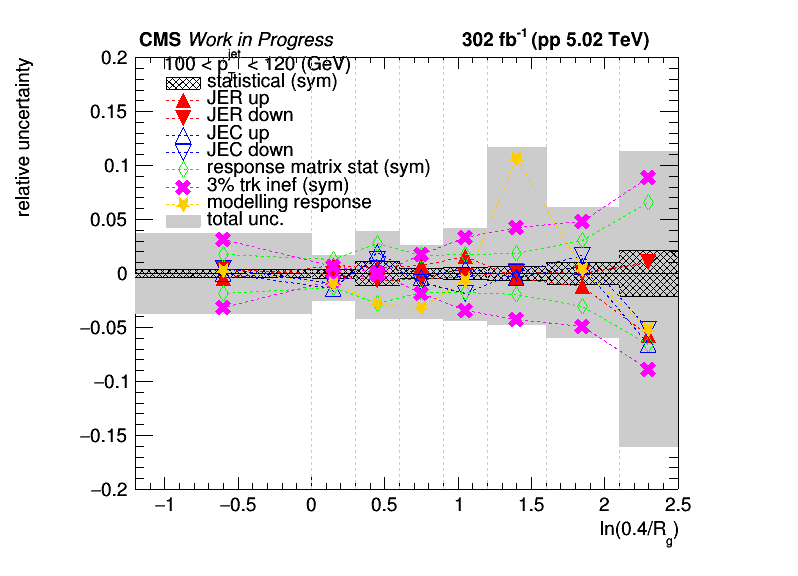
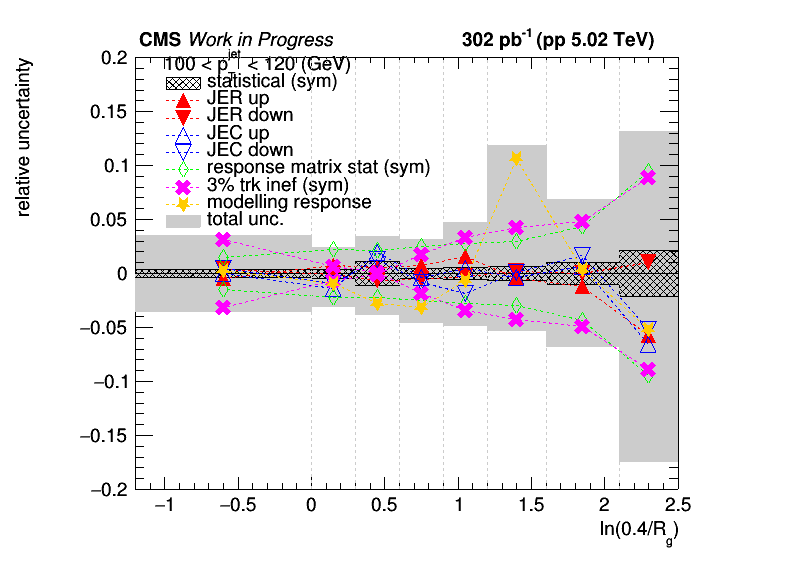
total unc for b tagged jets rg/zg/z

diff --git a/myMacros/C106X/uncertanties/draw_unc.C b/myMacros/C106X/uncertanties/draw_unc.C
@@ -1,0 +1,257 @@
+#include "../draw_utils.h"
+
+void draw_unc(TString observable="rg")
+{
+    TString xlabel;
+    if (observable=="rg") xlabel = "ln(0.4/R_{g})";
+    else if (observable=="zg") xlabel = "z_{g}";
+    else if (observable=="zpt") xlabel = "z";
+    
+    gStyle->SetErrorX(0.5);
+
+    TFile *fin_jer = new TFile("histos/"+observable+"_jer_unc_XXT.root");
+    TFile *fin_jec = new TFile("histos/"+observable+"_jec_unc_XXT.root");
+    TFile *fin_trk_inef = new TFile("histos/"+observable+"_trk_inef_XXT.root");
+    TFile *fin_model_unc = new TFile("histos/"+observable+"_model_unc_XXT.root");
+    TFile *fin_stat_unc = new TFile("histos/"+observable+"_stat_unc_XXT.root");
+    TFile *fin_mc_stat_unc = new TFile("histos/"+observable+"_mc_stat_unc_XXT.root");
+    TFile *fin_model_fit_unc = new TFile("histos/"+observable+"_model_fit_unc_XXT.root");
+    TFile *fin_btag = new TFile("histos/"+observable+"_btag_bias.root");
+    TFile *fin_cl_frac = new TFile("histos/"+observable+"_cl_frac_unc_XXT.root");
+
+    // debug: raw stat unc
+    TFile *fin_raw_stat_unc = new TFile("histos/"+observable+"_raw_stat_unc_XXT.root");
+
+    int nbins_pt = 3;
+    
+    TCanvas *c_unc = new TCanvas("c_unc", "", 1600,1200);
+    // TPad *pad11 = new TPad("pad11", "", 0., 0., 0.33, 1.);
+    TPad *pad12 = new TPad("pad12", "", 0., 0., 1., 1.);
+    // TPad *pad13 = new TPad("pad13", "", 0.66, 0., 0.99, 1.);
+
+    TPad *pad11, *pad13;
+
+    std::vector<TPad *> pads = {pad11, pad12, pad13};
+
+    TString fout_name = "histos/total_unc_XXT_"+observable+".root";
+    std::cout << "Creating file: " << fout_name << std::endl;
+    TFile *fout = new TFile(fout_name, "recreate");
+
+    for (int ibin_pt=1; ibin_pt<=nbins_pt; ibin_pt++) {
+        if (ibin_pt!=2) continue;
+        int ipad = ibin_pt - 1;
+
+        TLegend *leg = new TLegend(0.2, 0.6, 0.6, 0.9);
+        leg->SetFillStyle(0);
+        leg->SetBorderSize(0);
+        leg->SetMargin(0.15);
+        // leg->SetHeader(Form("jet pt bin %d", ibin_pt));
+        leg->SetHeader("100 < p_{T}^{jet} < 120 (GeV)");
+
+        TH1D *h_stat_unc_rel = (TH1D *) fin_stat_unc->Get(Form("h_stat_unc_rel_%d", ibin_pt))->Clone(Form("h_stat_unc_rel_%d", ibin_pt));
+        h_stat_unc_rel->SetLineColor(kBlack);
+        h_stat_unc_rel->SetFillStyle(3244);
+        h_stat_unc_rel->SetMarkerStyle(1);
+        h_stat_unc_rel->GetYaxis()->SetTitle("relative uncertainty");
+        h_stat_unc_rel->GetYaxis()->SetTitleOffset(2.5);
+        leg->AddEntry(h_stat_unc_rel, "statistical (sym)", "f");
+
+        TH1D *h_stat_unc_rel_down = (TH1D *) h_stat_unc_rel->Clone(Form("h_stat_unc_rel_down_%d", ibin_pt));
+        h_stat_unc_rel_down->Scale(-1.);
+
+        // debug: raw stat unc
+        TH1D *h_raw_stat_unc_rel = (TH1D *) fin_raw_stat_unc->Get(Form("h_stat_unc_rel_%d", ibin_pt))->Clone(Form("h_raw_stat_unc_rel_%d", ibin_pt));
+        h_raw_stat_unc_rel->SetLineColor(kBlack);
+        h_raw_stat_unc_rel->SetFillStyle(3002);
+        h_raw_stat_unc_rel->SetMarkerStyle(1);
+        h_raw_stat_unc_rel->GetYaxis()->SetTitle("relative uncertainty");
+        h_raw_stat_unc_rel->GetYaxis()->SetTitleOffset(2.5);
+        // leg->AddEntry(h_raw_stat_unc_rel, "raw statistical (sym)", "f");
+
+        TH1D *h_raw_stat_unc_rel_down = (TH1D *) h_raw_stat_unc_rel->Clone(Form("h_raw_stat_unc_rel_down_%d", ibin_pt));
+        h_raw_stat_unc_rel_down->Scale(-1.);
+
+        std::cout << "after stat " << std::endl;
+
+        TH1D *h_jer_up_rel = (TH1D *) fin_jer->Get(Form("h_unc_up_rel_%d", ibin_pt))->Clone(Form("h_jer_up_rel_%d", ibin_pt));
+        h_jer_up_rel->SetMarkerStyle(kFullTriangleUp);
+        h_jer_up_rel->SetLineColor(kRed);
+        leg->AddEntry(h_jer_up_rel, "JER up", "pl");
+        
+        TH1D *h_jer_down_rel = (TH1D *) fin_jer->Get(Form("h_unc_down_rel_%d", ibin_pt))->Clone(Form("h_jer_down_rel_%d", ibin_pt));
+        h_jer_down_rel->SetMarkerStyle(kFullTriangleDown);
+        h_jer_down_rel->SetLineColor(kRed);
+        leg->AddEntry(h_jer_down_rel, "JER down", "pl");
+
+        std::cout << "after jer " << std::endl;
+
+        TH1D *h_jec_up_rel = (TH1D *) fin_jec->Get(Form("h_unc_up_rel_%d", ibin_pt))->Clone(Form("h_jec_up_rel_%d", ibin_pt));
+        h_jec_up_rel->SetLineColor(kBlue);
+        h_jec_up_rel->SetMarkerStyle(kOpenTriangleUp);
+        leg->AddEntry(h_jec_up_rel, "JEC up", "pl");
+
+        TH1D *h_jec_down_rel = (TH1D *) fin_jec->Get(Form("h_unc_down_rel_%d", ibin_pt))->Clone(Form("h_jec_down_rel_%d", ibin_pt));
+        h_jec_down_rel->SetLineColor(kBlue);
+        h_jec_down_rel->SetMarkerStyle(kOpenTriangleDown);
+        leg->AddEntry(h_jec_down_rel, "JEC down", "pl");
+
+        std::cout << "after jec " << std::endl;
+
+        TH1D *h_mc_stat_unc_up_rel = (TH1D *) fin_mc_stat_unc->Get(Form("h_mc_stat_unc_up_rel_%d", ibin_pt))->Clone(Form("h_mc_stat_unc_up_rel_%d", ibin_pt));
+        h_mc_stat_unc_up_rel->SetLineColor(kGreen);
+        h_mc_stat_unc_up_rel->SetMarkerStyle(kOpenDiamond);
+        leg->AddEntry(h_mc_stat_unc_up_rel, "response matrix stat (sym)", "pl");
+
+        TH1D *h_mc_stat_unc_down_rel = (TH1D *) h_mc_stat_unc_up_rel->Clone(Form("h_stat_unc_down_rel_%d", ibin_pt));
+        h_mc_stat_unc_down_rel->Scale(-1.);
+
+        TH1D *h_trk_inef_up_rel = (TH1D *) fin_trk_inef->Get(Form("h_inef_unc_rel_%d", ibin_pt))->Clone(Form("h_trk_inef_up_rel_%d", ibin_pt));
+        h_trk_inef_up_rel->SetLineColor(kMagenta);
+        h_trk_inef_up_rel->SetMarkerStyle(kFullCrossX);
+        leg->AddEntry(h_trk_inef_up_rel, "3% trk inef (sym)", "pl");
+
+        TH1D *h_trk_inef_down_rel = (TH1D *) h_trk_inef_up_rel->Clone(Form("h_trk_inef_down_rel_%d", ibin_pt));
+        h_trk_inef_down_rel->Scale(-1.);
+
+        std::cout << "after trk " << std::endl;
+
+        TH1D *h_model_unc_rel = (TH1D *) fin_model_unc->Get(Form("h_model_unc_rel_%d", ibin_pt))->Clone(Form("h_model_unc_rel_%d", ibin_pt));
+        h_model_unc_rel->SetLineColor(kOrange);
+        h_model_unc_rel->SetMarkerStyle(kFullStar);
+        leg->AddEntry(h_model_unc_rel, "modelling response", "pl");
+
+        TH1D *h_model_fit_unc_rel = (TH1D *) fin_model_fit_unc->Get(Form("h_model_fit_unc_rel_%d", ibin_pt))->Clone(Form("h_model_fit_unc_rel_%d", ibin_pt));
+        h_model_fit_unc_rel->SetLineColor(kOrange-3);
+        h_model_fit_unc_rel->SetMarkerStyle(kFullDoubleDiamond);
+        leg->AddEntry(h_model_fit_unc_rel, "modelling template fit shape", "pl");
+
+        TH1D *h_cl_frac_up_rel = (TH1D *) fin_cl_frac->Get(Form("h_unc_up_rel_%d", ibin_pt))->Clone(Form("h_cl_frac_up_rel_%d", ibin_pt));
+        h_cl_frac_up_rel->SetLineColor(kSpring+10);
+        h_cl_frac_up_rel->SetMarkerStyle(kFullSquare);
+        leg->AddEntry(h_cl_frac_up_rel, "cl frac up", "pl");
+
+        TH1D *h_cl_frac_down_rel = (TH1D *) fin_cl_frac->Get(Form("h_unc_down_rel_%d", ibin_pt))->Clone(Form("h_cl_frac_down_rel_%d", ibin_pt));
+        h_cl_frac_down_rel->SetLineColor(kSpring+10);
+        h_cl_frac_down_rel->SetMarkerStyle(kOpenSquare);
+        leg->AddEntry(h_cl_frac_down_rel, "cl frac down", "pl");
+
+        TH1D *h_sf_up_rel = (TH1D *) fin_btag->Get(Form("h_unc_up_rel_%d", ibin_pt))->Clone(Form("h_sf_up_rel_%d", ibin_pt));
+        h_sf_up_rel->SetLineColor(kViolet);
+        h_sf_up_rel->SetMarkerStyle(kFullCross);
+        leg->AddEntry(h_sf_up_rel, "SF up", "pl");
+
+        TH1D *h_sf_down_rel = (TH1D *) fin_btag->Get(Form("h_unc_down_rel_%d", ibin_pt))->Clone(Form("h_sf_down_rel_%d", ibin_pt));
+        h_sf_down_rel->SetLineColor(kViolet);
+        h_sf_down_rel->SetMarkerStyle(kOpenCross);
+        leg->AddEntry(h_sf_down_rel, "SF down", "pl");
+
+        std::vector<TH1D *> histos = {h_jer_up_rel, h_jer_down_rel, 
+                                      h_jec_up_rel, h_jec_down_rel, 
+                                      h_mc_stat_unc_up_rel, h_mc_stat_unc_down_rel, 
+                                      h_trk_inef_up_rel, h_trk_inef_down_rel, 
+                                      h_model_unc_rel, h_model_fit_unc_rel, 
+                                      h_cl_frac_up_rel, h_cl_frac_down_rel, 
+                                      h_sf_up_rel, h_sf_down_rel};
+        
+        std::vector<TH1D *> all_histos = {h_stat_unc_rel, h_stat_unc_rel_down};
+        all_histos.insert(all_histos.end(), histos.begin(), histos.end());
+        TH1D *h_total_unc_up = (TH1D *) h_stat_unc_rel->Clone(Form("h_total_unc_up_%d", ibin_pt));
+        h_total_unc_up->Reset();
+        TH1D *h_total_unc_down = (TH1D *) h_total_unc_up->Clone(Form("h_total_unc_down_%d", ibin_pt));
+        for (int ibin_x = 1; ibin_x <= h_total_unc_up->GetNbinsX(); ibin_x++) {
+            double total_unc_up = 0;
+            double total_unc_down = 0;
+
+            for (auto h : all_histos) {
+                double unc_h = h->GetBinContent(ibin_x);
+                if (unc_h>0) {
+                    total_unc_up += unc_h*unc_h;
+                } else {
+                    total_unc_down += unc_h*unc_h;
+                }
+            }
+
+            total_unc_up = std::sqrt(total_unc_up);
+            total_unc_down = std::sqrt(total_unc_down);
+            total_unc_down *= -1;
+
+            h_total_unc_up->SetBinContent(ibin_x, total_unc_up);
+            h_total_unc_down->SetBinContent(ibin_x, total_unc_down);
+        }
+        h_total_unc_up->Write();
+        h_total_unc_down->Write();
+
+        leg->AddEntry(h_total_unc_up, "total unc.", "f");
+
+        double ymin=-1;
+        double ymax=1;
+
+        pads[ipad]->cd();
+
+        for (auto h : {h_total_unc_up, h_total_unc_down}) {
+            h->GetYaxis()->SetRangeUser(ymin, ymax);
+            h->SetFillColor(kGray);
+            h->SetLineColor(kGray);
+            h->SetMarkerColor(kGray);
+            h->SetMarkerStyle(1);
+            h->SetFillStyle(1001);
+            h->GetXaxis()->SetTitle(xlabel);
+            h->Draw("hist same");
+        }
+
+        for (auto h : {h_stat_unc_rel, h_stat_unc_rel_down,
+                    //    h_raw_stat_unc_rel, h_raw_stat_unc_rel_down
+                       }) {
+            h->GetYaxis()->SetRangeUser(ymin, ymax);
+            h->SetFillColor(h->GetLineColor());
+            h->SetMarkerColor(h->GetLineColor());
+            h->GetXaxis()->SetTitle(xlabel);
+            h->Draw("hist same");
+        }
+
+        TLine *line = new TLine(h_jer_up_rel->GetXaxis()->GetBinLowEdge(1), 0, h_jer_up_rel->GetXaxis()->GetBinUpEdge(h_jer_up_rel->GetNbinsX()), 0);
+        // line->SetLineStyle(kDashed);
+        line->Draw();
+
+        for (int i=0; i<histos.size(); i++) {
+            TH1D *h = histos[i];
+            h->GetYaxis()->SetRangeUser(ymin, ymax);
+            h->SetMarkerColor(h->GetLineColor());
+            h->SetLineWidth(1);
+            h->SetLineStyle(kDashed);
+            h->SetMarkerSize(2);
+            h->GetYaxis()->SetTitle("relative uncertainty");
+            h->GetYaxis()->SetTitleOffset(2);
+            h->Draw("p l hist same");
+        }
+        // h_stat_unc_rel->Draw("pe2 same");
+        leg->Draw();
+        drawHeader();
+
+        for (int ibin_x=1; ibin_x<h_jer_up_rel->GetNbinsX(); ibin_x++) {
+            double x = h_jer_up_rel->GetXaxis()->GetBinUpEdge(ibin_x);
+            TLine *line_x = new TLine(x, ymin, x, ymax);
+            line_x->SetLineColor(kGray);
+            line_x->SetLineStyle(kDashed);
+            line_x->Draw();
+        }
+
+        double x1 = h_jer_up_rel->GetXaxis()->GetBinLowEdge(h_jer_up_rel->GetNbinsX());
+        double x2 = h_jer_up_rel->GetXaxis()->GetBinUpEdge(h_jer_up_rel->GetNbinsX());
+        double y1 = ymin;
+        double y2 = ymax;
+        TPaveText *overflow = new TPaveText(x1, y1, x2, y2);
+        overflow->SetBorderSize(1);
+        overflow->SetFillStyle(3644);
+        auto overflow_txt = overflow->AddText("overflow");
+        overflow_txt->SetTextAngle(90);
+        overflow_txt->SetTextSize(20);
+        // if (observable=="rg") overflow->Draw();
+
+        c_unc->cd();
+        pads[ipad]->Draw();
+    }
+
+    c_unc->Draw();
+    c_unc->Print("plots_an/total_unc_XXT_"+observable+".png");
+}
